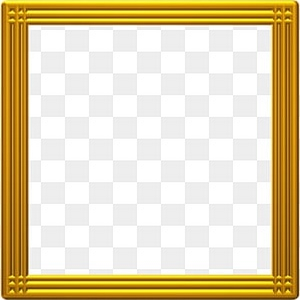
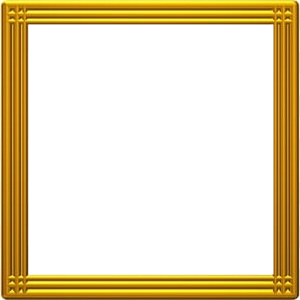
Picking frames works :)

Changed region(s): [[0.09, 0.06, 0.93, 0.93]]

diff --git a/frontend/src/components/Town/interactables/DrawingCanvas.tsx b/frontend/src/components/Town/interactables/DrawingCanvas.tsx
@@ -42,13 +42,13 @@ export default function DrawingCanvas({ controller, authorID }: DrawingCanvasPro
     },
     {
       id: 'frame2',
-      label: 'Classic Frame',
-      imageUrl: '/images/rsz_pngtree-metallic-gold-picture-frame-3d-png-image_10462872.png',
+      label: 'Fancy Frame',
+      imageUrl: '/images/fancy.jpeg',
     },
     {
       id: 'frame3',
-      label: 'Classic Frame',
-      imageUrl: '/images/rsz_pngtree-metallic-gold-picture-frame-3d-png-image_10462872.png',
+      label: 'Modern Frame',
+      imageUrl: '/images/plainframe.jpeg',
     },
   ];
 
@@ -293,10 +293,17 @@ export default function DrawingCanvas({ controller, authorID }: DrawingCanvasPro
               <ModalHeader>Choose a Frame</ModalHeader>
               <ModalCloseButton />
               <ModalBody>
-                {/* Dynamically generate frame selection buttons */}
                 {frameOptions.map(frame => (
-                  <Button key={frame.id} onClick={() => setSelectedFrame(frame)} m={2}>
+                  <Button
+                    key={frame.id}
+                    onClick={() => setSelectedFrame(frame)}
+                    m={2}
+                    colorScheme={selectedFrame.id === frame.id ? 'blue' : 'gray'} // Highlight selected frame
+                    variant={selectedFrame.id === frame.id ? 'solid' : 'outline'}>
                     {frame.label}
+                    {frame.imageUrl && (
+                      <Image src={frame.imageUrl} alt={frame.label} boxSize='30px' ml={2} />
+                    )}
                   </Button>
                 ))}
               </ModalBody>
